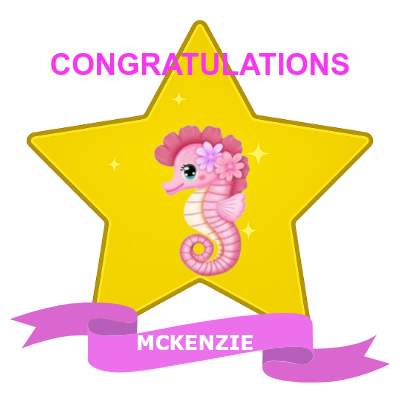
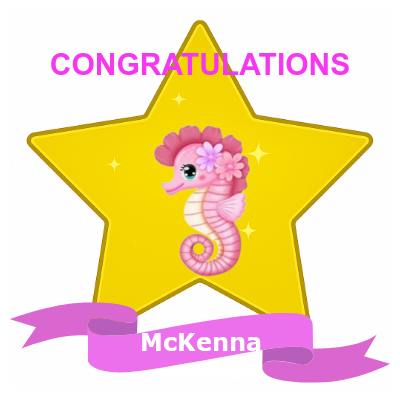
corrected name spelliong on McKenna card

Changed region(s): [[0.33, 0.81, 0.66, 0.9]]

diff --git a/style.css b/style.css
@@ -170,6 +170,20 @@
     animation: glowPulse 1.5s ease-in-out;
 }
 
+@keyframes glitter {
+    0% {
+        filter: brightness(1);
+    }
+
+    50% {
+        filter: brightness(1.4);
+    }
+
+    100% {
+        filter: brightness(1);
+    }
+}
+
 .card.collected img,
 .card.won img,
 .card.earned img {
@@ -177,6 +191,7 @@
     opacity: 1;
     box-shadow: 0 0 12px gold;
     transform: scale(1.05);
+    animation: glitter 1.5s infinite ease-in-out;
 }
 
 .card.earned {
